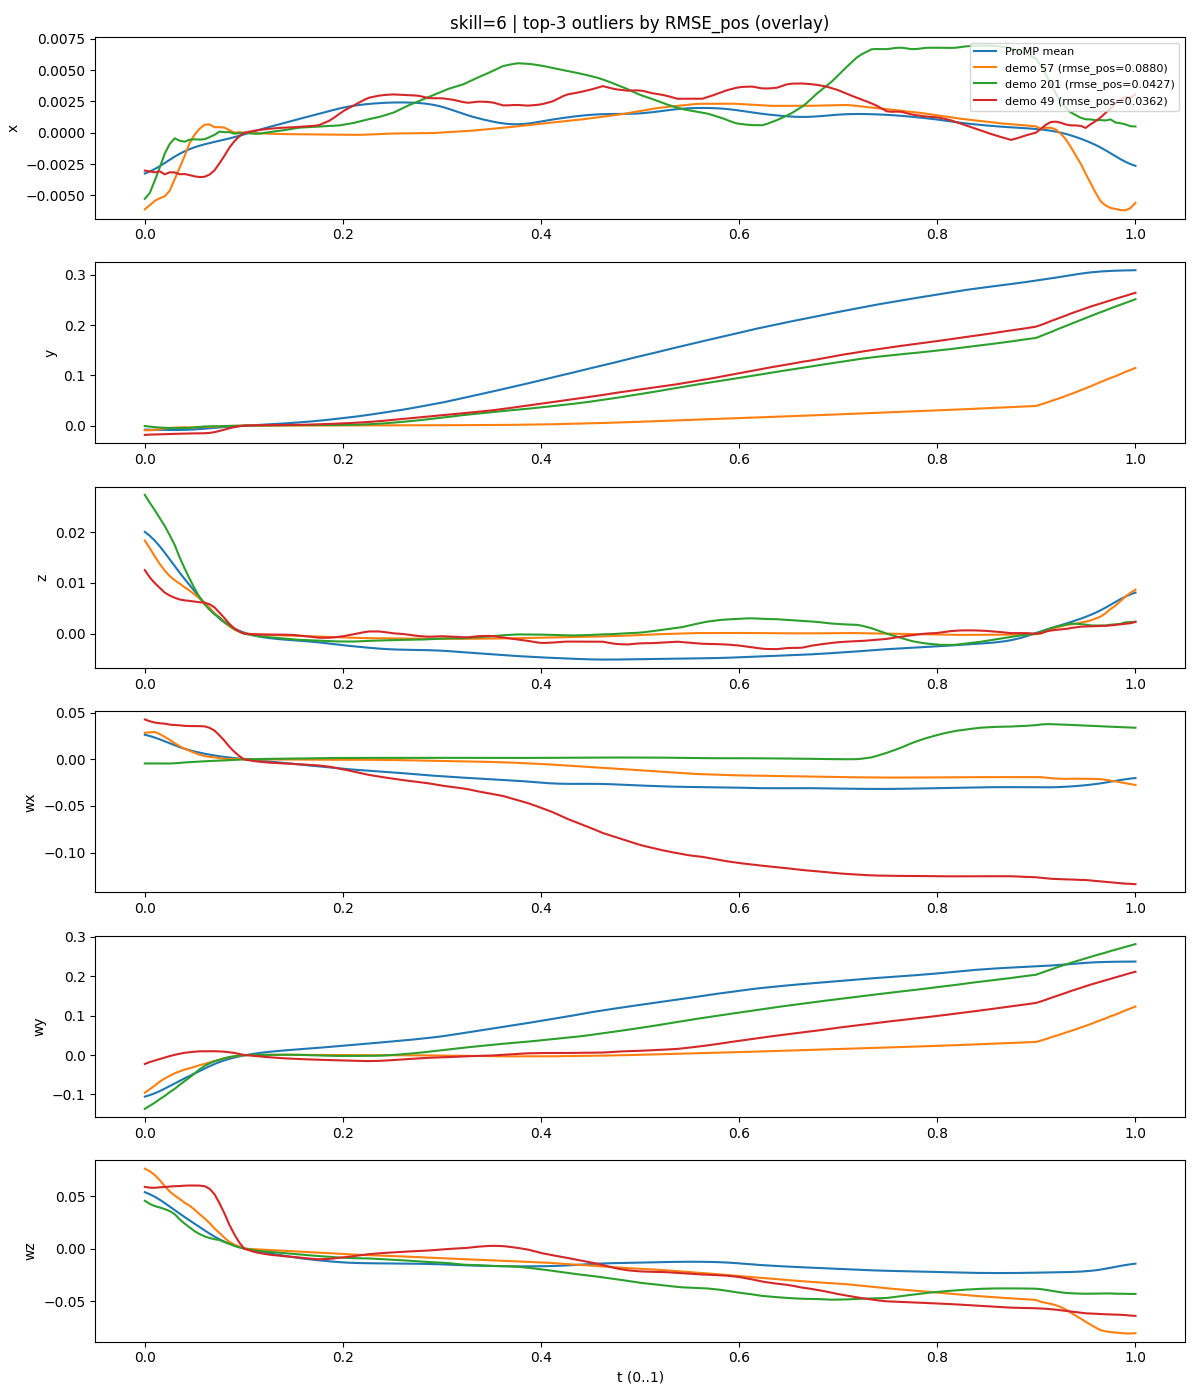
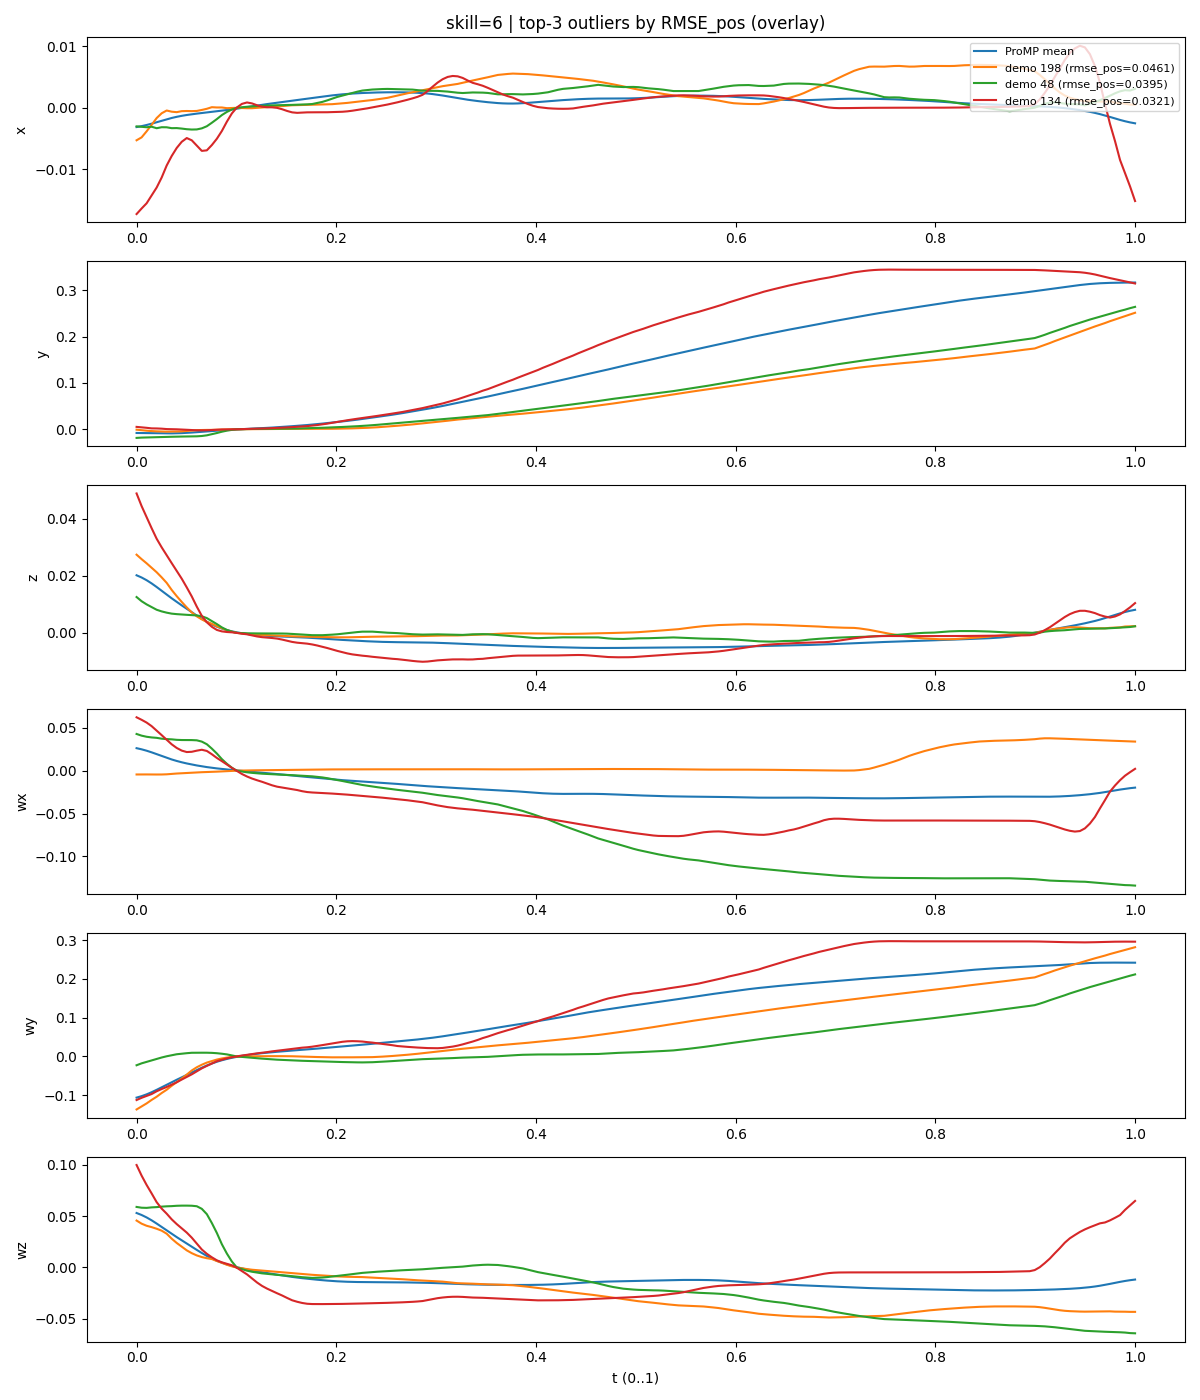
.

diff --git a/scripts/build_skill_library.py b/scripts/build_skill_library.py
@@ -387,6 +387,53 @@ def compute_y_length(y: np.ndarray) -> float:
     """
     return float(y[-1] - y[0])
 
+def filter_demos_by_index(
+    X_phase: np.ndarray,
+    W_phase: np.ndarray,
+    ptr_phase: np.ndarray,
+    ptr_crop: np.ndarray,
+    demo_skill: np.ndarray,
+    drop_ids: list[int],
+):
+    """
+    Remove demos with indices in drop_ids from BOTH phase and crop timelines.
+
+    Returns:
+    X_phase_new, W_phase_new, ptr_phase_new, ptr_crop_new, demo_skill_new
+    """
+    drop_ids = sorted(set(int(i) for i in drop_ids))
+    D = ptr_phase.shape[0] - 1
+
+    keep = [i for i in range(D) if i not in drop_ids]
+    if len(keep) == D:
+        return X_phase, W_phase, ptr_phase, ptr_crop, demo_skill
+
+    Xp_new, Wp_new = [], []
+    ptrp_new = [0]
+    ptrc_new = [0]
+    demo_skill_new = []
+
+    for i in keep:
+        sp, ep = int(ptr_phase[i]), int(ptr_phase[i + 1])
+        Xp_new.append(X_phase[sp:ep])
+        Wp_new.append(W_phase[sp:ep])
+        ptrp_new.append(ptrp_new[-1] + (ep - sp))
+
+        sc, ec = int(ptr_crop[i]), int(ptr_crop[i + 1])
+        ptrc_new.append(ptrc_new[-1] + (ec - sc))
+
+        demo_skill_new.append(int(demo_skill[i]))
+
+    Xp_new = np.concatenate(Xp_new, axis=0)
+    Wp_new = np.concatenate(Wp_new, axis=0)
+
+    return (
+        Xp_new,
+        Wp_new,
+        np.asarray(ptrp_new, dtype=np.int64),
+        np.asarray(ptrc_new, dtype=np.int64),
+        np.asarray(demo_skill_new, dtype=np.int64),
+    )
 
 
 def main():
@@ -413,6 +460,15 @@ def main():
     ap.add_argument("--outlier_topk", type=int, default=3, help="per-skill top-k outliers by RMSE_pos vs ProMP mean")
     ap.add_argument("--outlier_maxplot", type=int, default=10, help="cap number of demos to overlay per outlier plot (safety)")
 
+    # NEW: drop demo indices at load time
+    ap.add_argument(
+        "--drop_demos",
+        type=int,
+        nargs="*",
+        default=[36, 57, 98, 202],
+        help="List of demo indices (phase/crop) to drop entirely before building skill library",
+    )
+
     args = ap.parse_args()
 
     npz_path = Path(args.npz)
@@ -435,10 +491,9 @@ def main():
     Xp = np.asarray(data["X_phase_crop"], dtype=np.float64)  # (N_phase,3)
     Wp = np.asarray(data["W_phase_crop"], dtype=np.float64)  # (N_phase,3)
     ptrp = np.asarray(data["demo_ptr_phase"], dtype=np.int64)  # (D_phase+1,)
-    Dc_phase = int(ptrp.shape[0] - 1)
+    ptrc = np.asarray(data["demo_ptr_crop"], dtype=np.int64)   # (D_crop+1,)
 
-    # For skill ids, we infer from crop timeline (demo_ptr_crop), then map to phase demos 1:1
-    ptrc = np.asarray(data["demo_ptr_crop"], dtype=np.int64)
+    Dc_phase = int(ptrp.shape[0] - 1)
     Dc_crop = int(ptrc.shape[0] - 1)
     if Dc_phase != Dc_crop:
         raise ValueError(f"Mismatch demos: D_phase={Dc_phase} != D_crop={Dc_crop}. Phase build assumed 1:1 demo.")
@@ -446,7 +501,6 @@ def main():
     # Phase grid (optional)
     phase_grid = np.asarray(data["phase_grid"], dtype=np.float64) if "phase_grid" in data else None
     if phase_grid is None:
-        # infer constant phase length from first demo
         if Dc_phase <= 0:
             raise ValueError("No phase demos found.")
         phase_len = int(ptrp[1] - ptrp[0])
@@ -454,14 +508,39 @@ def main():
     else:
         phase_len = int(phase_grid.shape[0])
 
-    # Build concatenated 6D trajectories for learning (확인: 6D 맞음)
-    # Y_all shape: (N_phase, 6)
+    # skill ids per demo (inferred from crop timeline)
+    demo_skill = infer_demo_skill_ids(data, ptrc)  # (D,)
+
+    # --------------------
+    # NEW: DROP DEMOS EARLY (keep phase/crop consistent)
+    # --------------------
+    if len(args.drop_demos) > 0:
+        drop_set = sorted(set(int(i) for i in args.drop_demos))
+        print(f"[info] Dropping demos: {drop_set}")
+
+        # validate indices
+        bad = [i for i in drop_set if i < 0 or i >= Dc_phase]
+        if bad:
+            raise ValueError(f"--drop_demos contains out-of-range indices: {bad} (valid: 0..{Dc_phase-1})")
+
+        Xp, Wp, ptrp, ptrc, demo_skill = filter_demos_by_index(
+            X_phase=Xp,
+            W_phase=Wp,
+            ptr_phase=ptrp,
+            ptr_crop=ptrc,
+            demo_skill=demo_skill,
+            drop_ids=drop_set,
+        )
+
+        Dc_phase = int(ptrp.shape[0] - 1)
+        Dc_crop = int(ptrc.shape[0] - 1)
+        if Dc_phase != Dc_crop:
+            raise RuntimeError("After dropping demos: D_phase != D_crop (should not happen)")
+
+    # Build concatenated 6D trajectories for learning
     Y_all = np.concatenate([Xp, Wp], axis=1)
     if Y_all.shape[1] != 6:
         raise ValueError(f"Expected 6D (xyz+rotvec), but got Y_all.shape={Y_all.shape}")
-
-    # skill ids per demo
-    demo_skill = infer_demo_skill_ids(data, ptrc)  # (D,)
 
     # group by skill
     skill_to_demo_idxs: dict[int, list[int]] = {}
@@ -597,6 +676,7 @@ def main():
         "skill_ids_present": sorted(list(skill_to_demo_idxs.keys())),
         "n_phase_demos": int(Dc_phase),
         "n_phase_steps": int(Y_all.shape[0]),
+        "drop_demos": list(map(int, args.drop_demos)),
     }
 
     out_path.parent.mkdir(parents=True, exist_ok=True)
